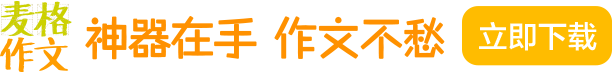
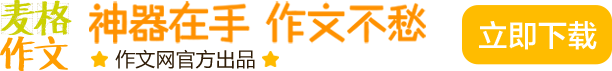
add copyright

diff --git a/index.html b/index.html
@@ -69,12 +69,16 @@
                     <div class="visible-sm visible-xs" id="smallViewHeader">
                         <div class="topHeading">
                             <img src="images/heading.png" alt="神器在手，作文不愁" class="img-responsive center-block visible-xs" width="250px">
-                            <img src="images/heading.png" alt="神器在手，作文不愁" class="img-responsive center-block hidden-xs">
+                            <img src="images/heading.png" alt="神器在手，作文不愁" class="img-responsive center-block hidden-xs" width="320px">
+                        </div>
+                        <div class="topCopyright">
+                            <img src="images/copyright.png" alt="作文网官方出品" class="img-responsive center-block visible-xs" width="200px">
+                            <img src="images/copyright.png" alt="作文网官方出品" class="img-responsive center-block visible-sm" width="250px">
                         </div>
                         <div class="topDownloading hidden_no">
                             <a href="http://atth.zuowen.com/app/zuowen_m_zuowen.apk" target="_blank" id="mDownloadLink">
-                                <img src="images/button1_normal.png" class="center-block visible-xs" width="200px">
-                                <img src="images/button1_normal.png" class="center-block visible-sm" width="250px">
+                                <img src="images/button1_normal.png" class="center-block visible-xs" width="200px" alt="点击下载">
+                                <img src="images/button1_normal.png" class="center-block visible-sm" width="250px" alt="点击下载">
                             </a>
                         </div>
                         <div class="topWaitingSection hidden">
@@ -90,10 +94,14 @@
                 </div>
                 <div class="col-md-8 visible-md visible-lg" id="rightSide">
                     <div>
-                        <img src="images/slogan.png" alt="让写作更简单" class="img-responsive">
+                        <img src="images/slogan.png" alt="让写作更简单" class="img-responsive visible-lg">
+                        <img src="images/slogan.png" alt="让写作更简单" class="img-responsive visible-md" id="mdSloganImg">
                     </div>
                     <div class="heading">
                         <img src="images/heading.png" alt="神器在手，作文不愁" class="img-responsive">
+                    </div>
+                    <div class="heading">
+                        <img src="images/copyright.png" alt="作文网官方出品" class="img-responsive">
                     </div>
                     <div class="downloadSection hidden_no">
                         <div class="">
@@ -121,21 +129,33 @@
             <!-- Three columns of text below the carousel -->
             <div class="row text-center">
                 <div class="col-lg-4">
-                    <a href="javascript:;" class="featureImg center-block" id="searchImg"></a>
+                    <a href="javascript:;" class="featureImg center-block hidden-xs searchImg"></a>
+                    <a href="javascript:;" class="featureImg center-block visible-xs">
+                        <img src="images/icon1.png">
+                    </a>
 
-                    <img src="images/search.png" class="center-block">
+                    <img src="images/search.png" class="center-block hidden-xs">
+                    <img src="images/search.png" class="center-block visible-xs">
                     <p>海量作文资源，掌中搜索一键直达。</p>
                 </div><!-- /.col-lg-4 -->
                 <div class="col-lg-4">
-                    <a href="javascript:;" class="featureImg center-block" id="favImg"></a>
+                    <a href="javascript:;" class="featureImg center-block hidden-xs favImg"></a>
+                    <a href="javascript:;" class="featureImg center-block visible-xs">
+                        <img src="images/icon2.png">
+                    </a>
 
-                    <img src="images/fav.png" class="center-block">
+                    <img src="images/fav.png" class="center-block hidden-xs">
+                    <img src="images/fav.png" class="center-block visible-xs">
                     <p>手指轻点，优秀范文素材尽收囊中。</p>
                 </div><!-- /.col-lg-4 -->
                 <div class="col-lg-4">
-                    <a href="javascript:;" class="featureImg center-block" id="libImg"></a>
+                    <a href="javascript:;" class="featureImg center-block hidden-xs libImg"></a>
+                    <a href="javascript:;" class="featureImg center-block visible-xs">
+                        <img src="images/icon3.png">
+                    </a>
 
-                    <img src="images/lib.png" class="center-block">
+                    <img src="images/lib.png" class="center-block hidden-xs">
+                    <img src="images/lib.png" class="center-block visible-xs">
                     <p>多种分类，优质内容随时看不停。</p>
                 </div><!-- /.col-lg-4 -->
             </div><!-- /.row -->

diff --git a/css/landing.css b/css/landing.css
@@ -16,6 +16,10 @@ body {
   margin-top: 20px;
   margin-bottom: 20px;
 }
+#firstRow #smallViewHeader .topCopyright {
+  margin-top: 20px;
+  margin-bottom: 20px;
+}
 #firstRow #smallViewHeader .topWaitingSection {
   margin-top: 20px;
   margin-bottom: 20px;
@@ -26,6 +30,9 @@ body {
 #firstRow #rightSide {
   margin-top: -50px;
   padding-left: 60px;
+}
+#firstRow #rightSide #mdSloganImg {
+  max-width: 300px;
 }
 #firstRow .androidDownloadImg {
   display: block;
@@ -41,7 +48,7 @@ body {
   background: url('../images/button1_clicked.png');
 }
 #firstRow .downloadSection {
-  margin-top: 40px;
+  margin-top: 20px;
 }
 #firstRow .downloadSection div {
   width: 240px;
@@ -85,6 +92,9 @@ body {
   margin-top: 15px;
   margin-bottom: 15px;
 }
+#secondRow img.visible-xs {
+  max-width: 150px;
+}
 #secondRow .row div {
   padding-top: 40px;
 }
@@ -93,22 +103,31 @@ body {
   height: 150px;
   cursor: default;
 }
-#secondRow .featureImg#searchImg {
+#secondRow .featureImg.visible-xs {
+  max-width: 120px;
+  max-height: 120px;
+  margin-bottom: 10px;
+}
+#secondRow .featureImg.visible-xs img {
+  max-width: 100px;
+  max-height: 100px;
+}
+#secondRow .featureImg.searchImg {
   background: url('../images/icon1.png');
 }
-#secondRow .featureImg#searchImg:hover {
+#secondRow .featureImg.searchImg:hover {
   background: url('../images/icon1_hover.png');
 }
-#secondRow .featureImg#favImg {
+#secondRow .featureImg.favImg {
   background: url('../images/icon2.png');
 }
-#secondRow .featureImg#favImg:hover {
+#secondRow .featureImg.favImg:hover {
   background: url('../images/icon2_hover.png');
 }
-#secondRow .featureImg#libImg {
+#secondRow .featureImg.libImg {
   background: url('../images/icon3.png');
 }
-#secondRow .featureImg#libImg:hover {
+#secondRow .featureImg.libImg:hover {
   background: url('../images/icon3_hover.png');
 }
 #footer {

diff --git a/css/landing.less b/css/landing.less
@@ -28,6 +28,11 @@ body {
       margin-bottom: 20px;
     }
 
+    .topCopyright {
+      margin-top: 20px;
+      margin-bottom: 20px;
+    }
+
     .topWaitingSection {
       margin-top: 20px;
       margin-bottom: 20px;
@@ -41,6 +46,10 @@ body {
   #rightSide {
     margin-top: -50px;
     padding-left: 60px;
+
+    #mdSloganImg {
+      max-width: 300px;
+    }
   }
 
   .androidDownloadImg {
@@ -59,7 +68,7 @@ body {
   }
 
   .downloadSection {
-    margin-top: 40px;
+    margin-top: 20px;
 
     div {
       width: 240px;
@@ -116,6 +125,10 @@ body {
   img {
     margin-top: 15px;
     margin-bottom: 15px;
+
+    &.visible-xs {
+      max-width: 150px;
+    }
   }
 
   .row {
@@ -131,7 +144,18 @@ body {
     height: 150px;
     cursor: default;
 
-    &#searchImg {
+    &.visible-xs {
+      max-width: 120px;
+      max-height: 120px;
+      margin-bottom: 10px;
+
+      img {
+        max-width: 100px;
+        max-height: 100px;
+      }
+    }
+
+    &.searchImg {
       background: url('../images/icon1.png');
 
       &:hover {
@@ -139,7 +163,7 @@ body {
       }
     }
 
-    &#favImg {
+    &.favImg {
       background: url('../images/icon2.png');
 
       &:hover {
@@ -147,7 +171,7 @@ body {
       }
     }
 
-    &#libImg {
+    &.libImg {
       background: url('../images/icon3.png');
 
       &:hover {
